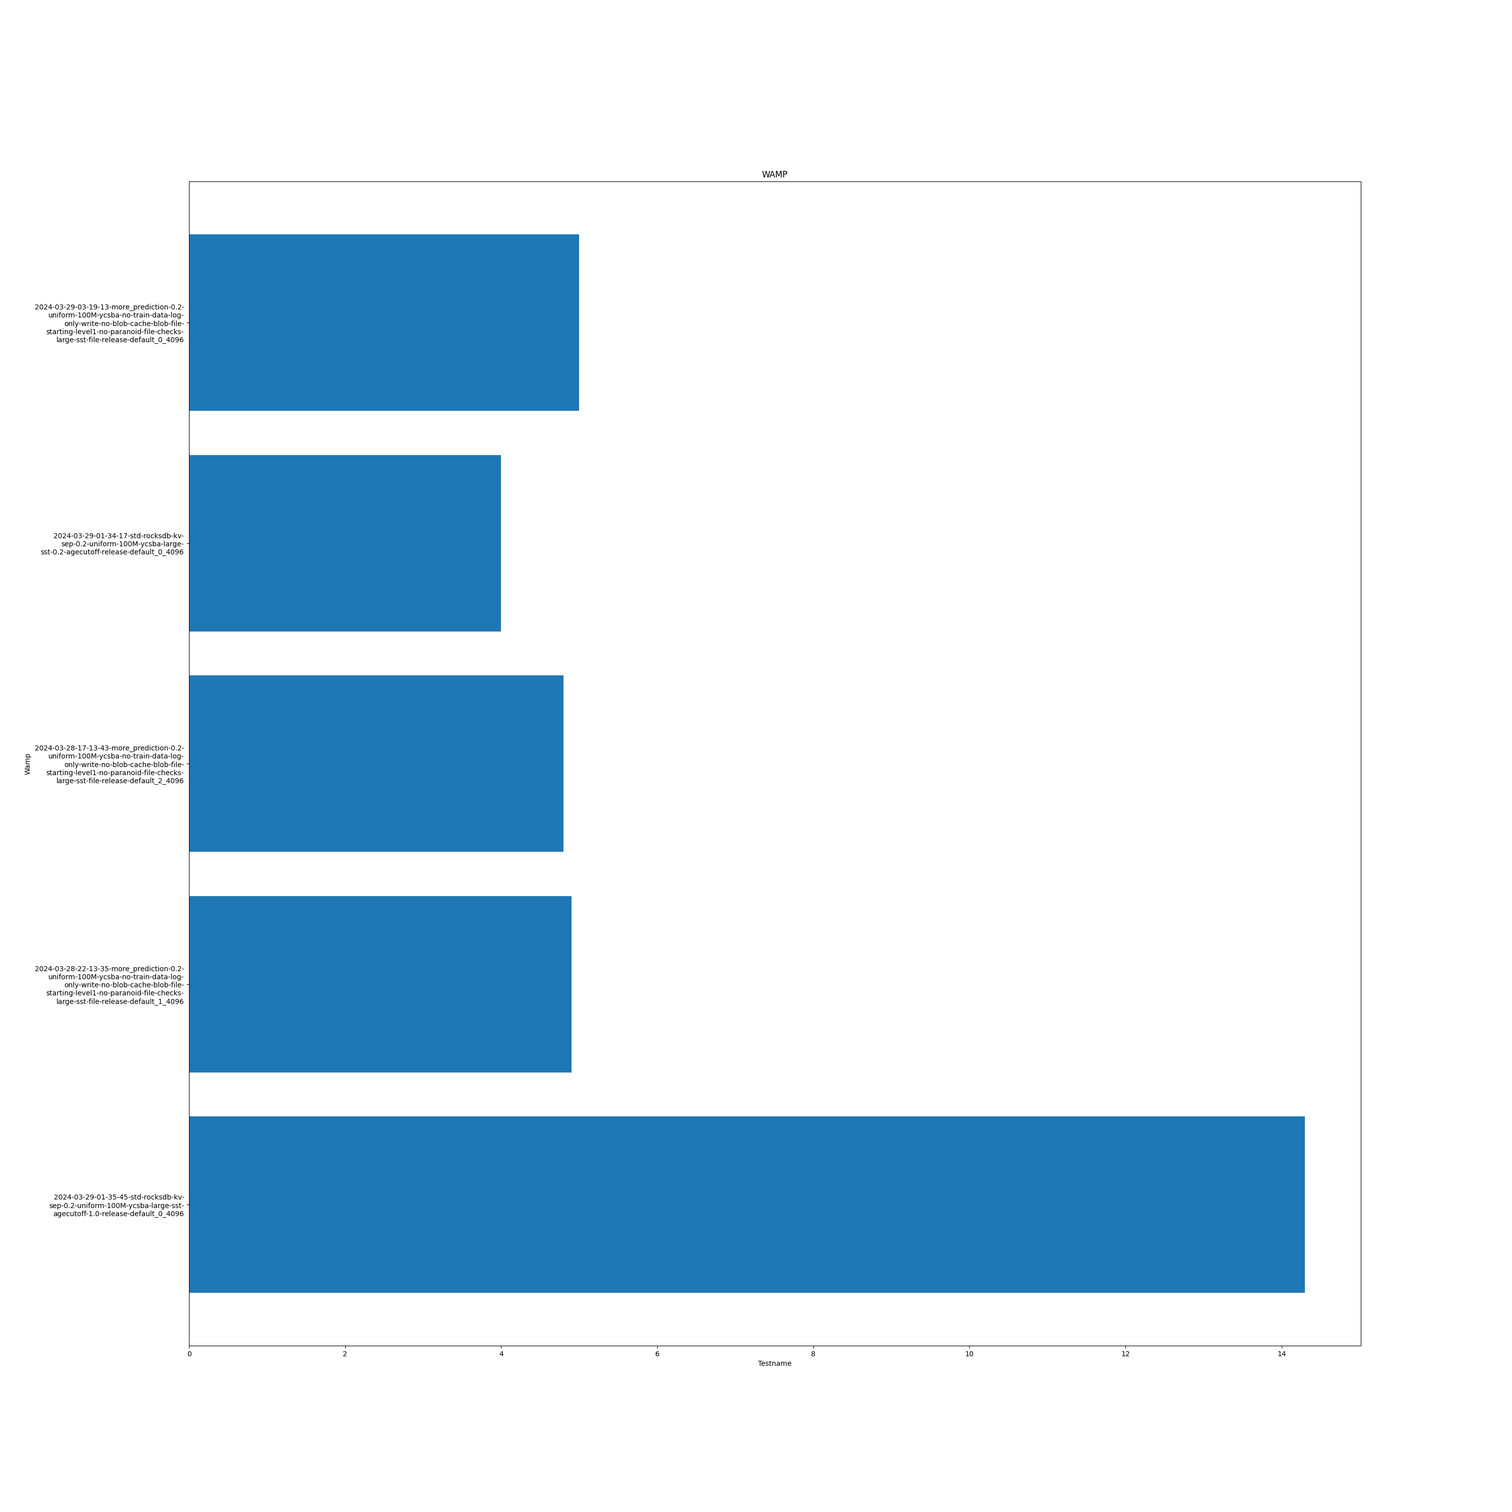
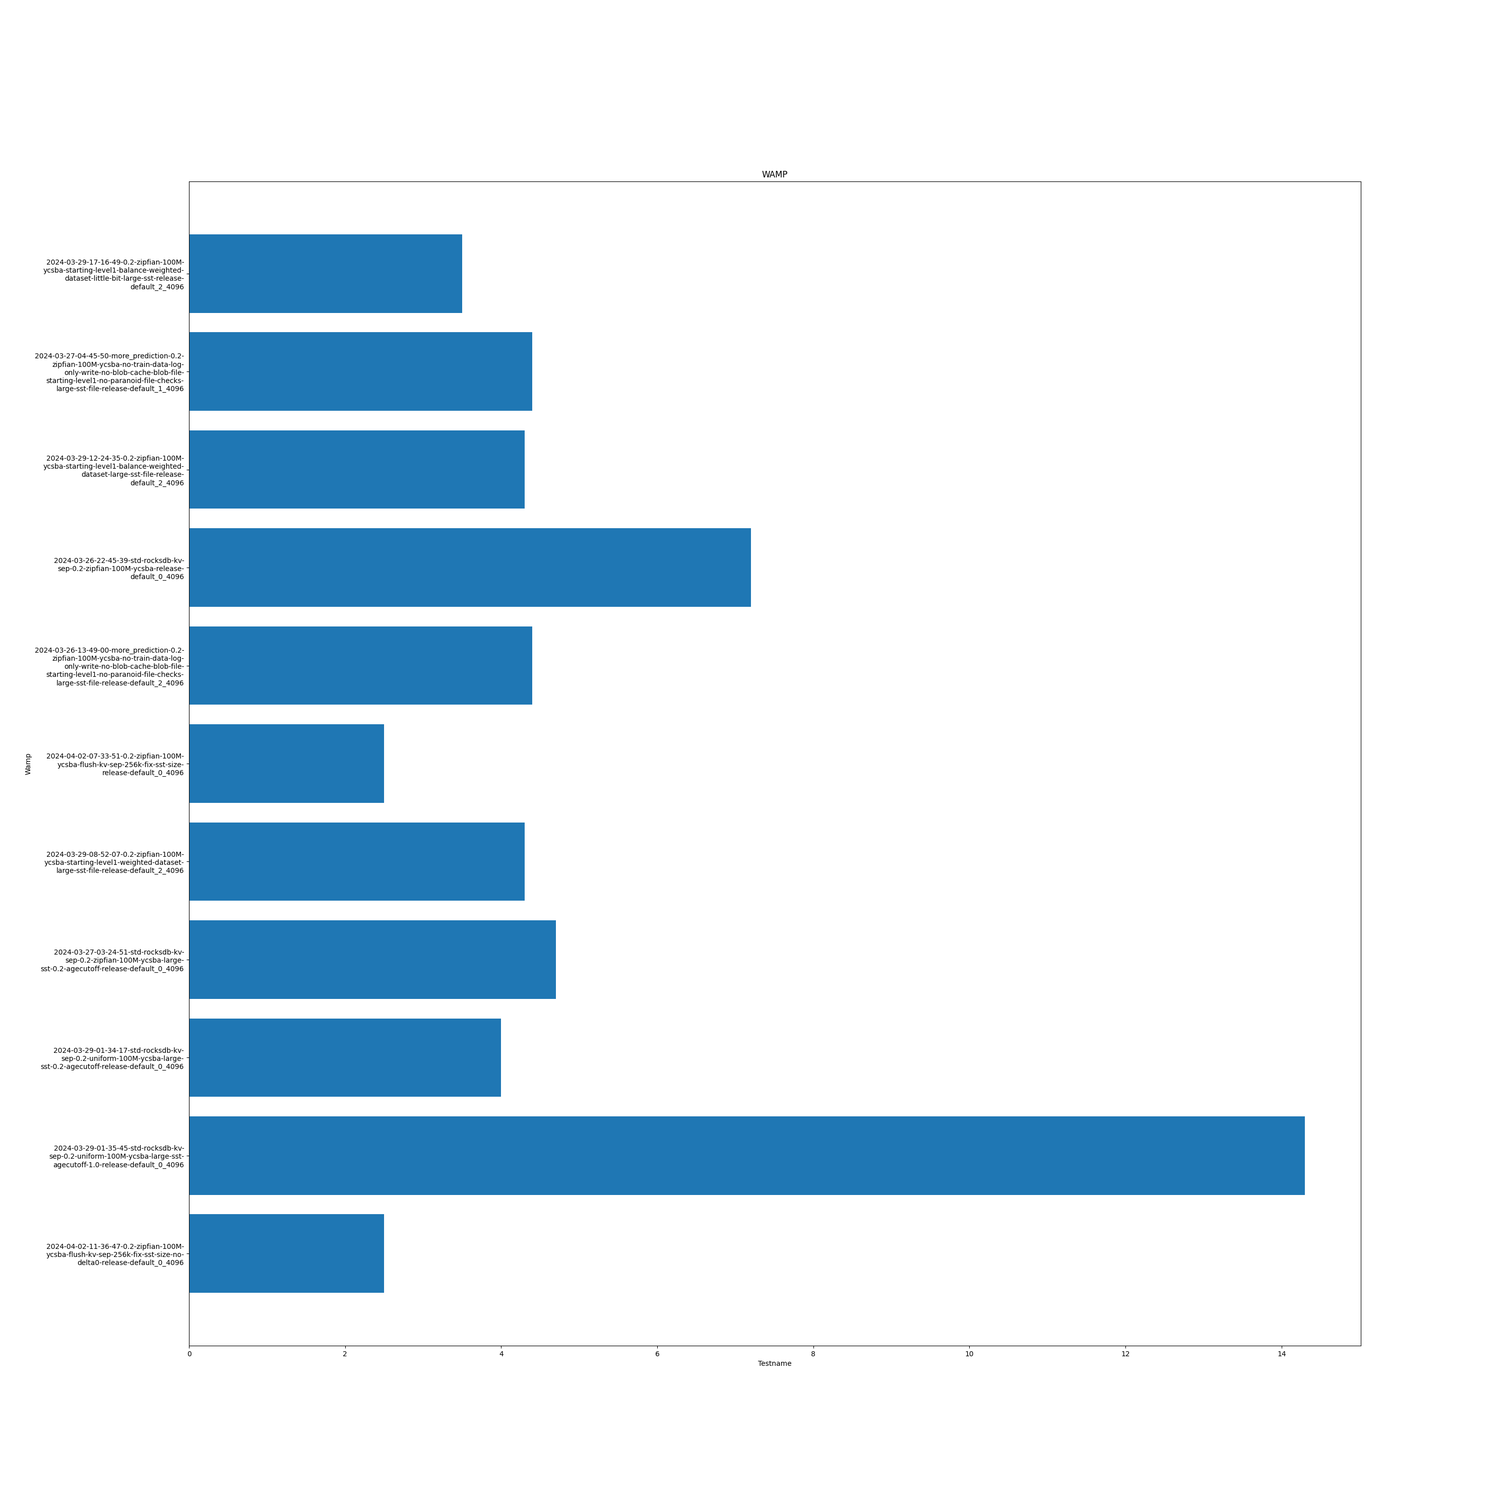
get more fig and update call run blob script to run with large sst file size

Changed region(s): [[0.031, 0.155, 0.496, 0.744], [0.031, 0.744, 0.868, 0.868], [0.031, 0.496, 0.124, 0.527]]

diff --git a/mlsm_scripts/ycsb_a/plot_write_amp.py b/mlsm_scripts/ycsb_a/plot_write_amp.py
@@ -4,9 +4,11 @@ import numpy as np
 import pandas as pd
 import os
 import csv
+import sys
 
+arg1 = sys.argv[1]
 # 1. Read the data from the file
-log_dir="./log_output_4096_uniform"
+log_dir=arg1
 
 large_x = []
 large_y = []

diff --git a/mlsm_doc/todo.md b/mlsm_doc/todo.md
@@ -12543,7 +12543,13 @@ Remove weighted sample to get lower total size.
 [Todo]
 Too many fragmented blob files.
 Accumulate specified amount of blob files before start gc.
-[Status: Not started]
+```
+2024/04/02-11:17:25.985497 3922749 [db/compaction/garbage_collection_job.cc:206] gc key count 0:6 1:0 2:289 3:0 
+2024/04/02-11:17:25.994753 3922749 (Original Log Time 2024/04/02-11:17:25.625176) EVENT_LOG_v1 {"time_micros": 1712056645625105, "job": 5296, "valid_key_num": 295, "invalid_key_num": 1096, "valid_value_size": 1208320, "invalid_value_size": 4489216, "invalid_key_ratio": 0.787922}
+2024/04/02-11:17:25.995882 3922749 (Original Log Time 2024/04/02-11:17:25.985518) EVENT_LOG_v1 {"time_micros": 1712056645984202, "job": 5296, "event": "gc_finished", "gc_time_micros": 87788, "gc_time_cpu_micros": 62376, "total_output_size": 1295640, "blob_file_head": 6736, "blob_file_tail": 16389, "blob_files": [6736, 6822, 6834, 9479, 9485, 9492, 9512, 9518, 9523, 9526, 9532, 9546, 9552, 9558, 9565, 9585, 9591, 9596, 9598, 9605, 9623, 9630, 9636, 9643, 9660, 9666, 9672, 9679, 9697, 9703, 9709, 9716, 9735, 9741, 9746, 9754, 9773, 9779, 9785, 9791, 9811, 9817, 9823, 9829, 9851, 9855, 9857, 9862, 9869, 9884, 9890, 9896, 9902, 9921, 9927, 9934, 9941, 9960, 9966, 9971, 9973, 9980, 9998, 10004, 10010, 10017, 10034, 10041, 10047, 10054, 10074, 10079, 10085, 10086, 10094, 10111, 10117, 10122, 10126, 10133, 10152, 10158, 10162, 10165, 10171, 10190, 10195, 10202, 10209, 10228, 10234, 10241, 10247, 10265, 10271, 10277, 10284, 10303, 10309, 10315, 10322, 10336, 10342, 10348, 10355, 10374, 10380, 10386, 10393, 10412, 10418, 10424, 10429, 10432, 10451, 10457, 10463, 10470, 10489, 10495, 10501, 10509, 10527, 10533, 10539, 10547, 10564, 10570, 10576, 10583, 10602, 10609, 10615, 10621, 10635, 10640, 10646, 10653, 10673, 10679, 10685, 10693, 10709, 10716, 10721, 10726, 10729, 10747, 10754, 10761, 10768, 10786, 10792, 10799, 10805, 10823, 10830, 10836, 10844, 10862, 10868, 10874, 10881, 10899, 10905, 10911, 10918, 10939, 10946, 10950, 10954, 10960, 10972, 10974, 10979, 10981, 10988, 10994, 11013, 11020, 11025, 11027, 11034, 11053, 11059, 11065, 11070, 11072, 11092, 11097, 11099, 11105, 11112, 11131, 11136, 11138, 11143, 11146, 11151, 11166, 11172, 11178, 11184, 11191, 11210, 11215, 11218, 11224, 11229, 11233, 11247, 11253, 11259, 11265, 11272, 11291, 11298, 11304, 11311, 11325, 11331, 11337, 11345, 11362, 11368, 11375, 11380, 11402, 11406, 11407, 11413, 11415, 11420, 11423, 11442, 11447, 11449, 11455, 11462, 11481, 11487, 11492, 11494, 11499, 11502, 11517, 11522, 11527, 11529, 11535, 11540, 11543, 11561, 11567, 11571, 11573, 11577, 11580, 11593, 11598, 11603, 11608, 11612, 11615, 11634, 11639, 11643, 11646, 11652, 11671, 11675, 11678, 11682, 11684, 11689, 11693, 11711, 11717, 11723, 11731, 11744, 11750, 11757, 11763, 11782, 11787, 11795, 11801, 11821, 11827, 11832, 11836, 11843, 11860, 11866, 11872, 11879, 11899, 11904, 11907, 11912, 11914, 11919, 11923, 11943, 11949, 11955, 11962, 11981, 11986, 11989, 11994, 11997, 12002, 12006, 12025, 12027, 12032, 12037, 12040, 12047, 12066, 12072, 12078, 12085, 12099, 12104, 12110, 12116, 12137, 12143, 12148, 12156, 12175, 12180, 12182, 12187, 12190, 12195, 12199, 12218, 12224, 12229, 12232, 12237, 12241, 12260, 12266, 12270, 12273, 12278, 12282, 12302, 12308, 12313, 12315, 12322, 12340, 12346, 12352, 12357, 12360, 12373, 12378, 12380, 12385, 12387, 12392, 12395, 12414, 12419, 12422, 12428, 12430, 12435, 12439, 12458, 12463, 12466, 12471, 12475, 12480, 12485, 12502, 12509, 12514, 12518, 12523, 12527, 12534, 12553, 12558, 12561, 12566, 12569, 12574, 12578, 12596, 12601, 12606, 12612, 12613, 12626, 12632, 12636, 12639, 12643, 12647, 12665, 12670, 12675, 12680, 12701, 12707, 12708, 12713, 12714, 12719, 12721, 12739, 12740, 12745, 12746, 12750, 12753, 12754, 12760, 12761, 12773, 12779, 12780, 12785, 12786, 12791, 12792, 12796, 12800, 12802, 12816, 12822, 12823, 12828, 12829, 12834, 12835, 12841, 12842, 12860, 12861, 12865, 12867, 12868, 12872, 12874, 12875, 12881, 12883, 12896, 12901, 12902, 12907, 12908, 12913, 12919, 12937, 12942, 12944, 12948, 12950, 12956, 12974, 12979, 12984, 12990, 13008, 13013, 13014, 13019, 13020, 13026, 13027, 13039, 13040, 13044, 13046, 13047, 13051, 13053, 13054, 13058, 13061, 13062, 13081, 13082, 13086, 13088, 13090, 13091, 13095, 13098, 13099, 13103, 13107, 13119, 13126, 13127, 13131, 13134, 13135, 13140, 13141, 13147, 13156, 13165, 13166, 13171, 13172, 13177, 13178, 13184, 13194, 13204, 13205, 13210, 13212, 13213, 13217, 13220, 13221, 13227, 13228, 13245, 13246, 13251, 13252, 13257, 13259, 13260, 13264, 13266, 13269, 13270, 13282, 13284, 13285, 13290, 13292, 13293, 13297, 13300, 13301, 13307, 13308, 13325, 13326, 13331, 13332, 13337, 13339, 13340, 13344, 13348, 13349, 13362, 13368, 13369, 13373, 13376, 13377, 13381, 13384, 13385, 13390, 13392, 13408, 13410, 13415, 13416, 13420, 13423, 13424, 13428, 13432, 13434, 13447, 13451, 13453, 13458, 13459, 13463, 13465, 13466, 13472, 13473, 13479, 13492, 13493, 13494, 13499, 13500, 13501, 13506, 13507, 13508, 13514, 13515, 13516, 13535, 13536, 13537, 13543, 13544, 13545, 13550, 13551, 13552, 13558, 13559, 13560, 13579, 13580, 13581, 13586, 13587, 13588, 13593, 13594, 13595, 13601, 13602, 13603, 13621, 13622, 13623, 13628, 13629, 13630, 13635, 13636, 13637, 13643, 13644, 13645, 13658, 13659, 13660, 13665, 13666, 13667, 13672, 13673, 13674, 13680, 13681, 13682, 13699, 13700, 13701, 13706, 13707, 13708, 13713, 13714, 13715, 13721, 13722, 13723, 13741, 13742, 13743, 13748, 13749, 13750, 13755, 13756, 13757, 13763, 13764, 13765, 13782, 13783, 13788, 13789, 13790, 13795, 13796, 13797, 13803, 13804, 13818, 13823, 13824, 13828, 13830, 13831, 13832, 13836, 13838, 13839, 13840, 13844, 13847, 13848, 13861, 13866, 13867, 13872, 13873, 13877, 13879, 13880, 13884, 13886, 13888, 13903, 13908, 13909, 13913, 13914, 13916, 13917, 13921, 13923, 13924, 13925, 13929, 13932, 13933, 13934, 13947, 13952, 13953, 13954, 13958, 13960, 13961, 13962, 13966, 13969, 13970, 13971, 13975, 13978, 13979, 13985, 13994, 13999, 14000, 14001, 14005, 14007, 14008, 14009, 14013, 14015, 14016, 14017, 14021, 14024, 14025, 14030, 14040, 14045, 14047, 14048, 14049, 14053, 14056, 14057, 14058, 14062, 14064, 14065, 14066, 14070, 14073, 14074, 14077, 14089, 14094, 14095, 14096, 14100, 14102, 14103, 14104, 14108, 14110, 14111, 14112, 14116, 14120, 14121, 14122, 14137, 14142, 14143, 14144, 14148, 14150, 14151, 14155, 14156, 14158, 14159, 14163, 14164, 14167, 14168, 14182, 14183, 14188, 14189, 14193, 14194, 14196, 14197, 14201, 14202, 14204, 14205, 14209, 14210, 14213, 14214, 14229, 14231, 14235, 14238, 14239, 14243, 14245, 14247, 14248, 14252, 14253, 14255, 14256, 14260, 14262, 14265, 14266, 14275, 14277, 14282, 14283, 14287, 14289, 14291, 14292, 14296, 14298, 14299, 14303, 14305, 14307, 14321, 14326, 14327, 14332, 14333, 14338, 14339, 14345, 14346, 14363, 14364, 14368, 14370, 14372, 14376, 14379, 14380, 14386, 14387, 14405, 14406, 14411, 14412, 14413, 14418, 14419, 14425, 14426, 14442, 14443, 14444, 14445, 14448, 14449, 14450, 14451, 14452, 14455, 14456, 14457, 14458, 14459, 14460, 14463, 14464, 14466, 14467, 14468, 14481, 14484, 14485, 14486, 14487, 14490, 14491, 14492, 14493, 14494, 14497, 14498, 14499, 14500, 14501, 14504, 14505, 14507, 14508, 14509, 14513, 14525, 14528, 14529, 14530, 14531, 14532, 14535, 14536, 14537, 14538, 14539, 14542, 14543, 14544, 14545, 14546, 14549, 14550, 14552, 14553, 14554, 14562, 14565, 14566, 14567, 14568, 14571, 14572, 14573, 14574, 14575, 14576, 14579, 14580, 14581, 14582, 14583, 14584, 14587, 14588, 14590, 14591, 14592, 14612, 14613, 14614, 14615, 14618, 14619, 14620, 14621, 14624, 14625, 14626, 14627, 14630, 14632, 14633, 14634, 14644, 14645, 14646, 14647, 14648, 14649, 14650, 14653, 14654, 14655, 14656, 14657, 14658, 14659, 14660, 14663, 14664, 14665, 14666, 14667, 14670, 14672, 14673, 14674, 14689, 14690, 14693, 14694, 14695, 14696, 14697, 14698, 14699, 14702, 14703, 14704, 14705, 14706, 14707, 14708, 14711, 14712, 14713, 14714, 14715, 14718, 14719, 14720, 14721, 14723, 14724, 14725, 14739, 14742, 14743, 14744, 14745, 14746, 14749, 14750, 14751, 14752, 14753, 14754, 14755, 14758, 14759, 14760, 14761, 14762, 14763, 14764, 14765, 14768, 14769, 14770, 14772, 14773, 14774, 14787, 14790, 14793, 14794, 14795, 14796, 14797, 14800, 14801, 14802, 14803, 14804, 14805, 14806, 14809, 14810, 14811, 14812, 14813, 14814, 14815, 14818, 14819, 14821, 14822, 14823, 14838, 14839, 14842, 14843, 14844, 14845, 14846, 14849, 14850, 14851, 14852, 14853, 14854, 14857, 14858, 14859, 14860, 14861, 14862, 14865, 14866, 14867, 14869, 14870, 14871, 14884, 14886, 14889, 14890, 14891, 14892, 14893, 14894, 14897, 14898, 14899, 14900, 14901, 14902, 14905, 14906, 14907, 14908, 14909, 14910, 14913, 14914, 14916, 14917, 14918, 14919, 14933, 14936, 14937, 1493
+
+```
+[Status: Ongoing]
 
 
 
@@ -12587,6 +12593,113 @@ I see, LogGarbagecollection is called before garbage collection starts.
 
 All gc key count is zero . Why is that?
 It should not happen for default_1 lifetime. 
+
+Add extra delta0 leads to many lifetime0 blobs. 
+I don't know why.
+With delta0, default lifetime 0
+```
+gc key count 0:19229 1:1279 2:1092 3:0
+```
+
+Without delta0 , default lifetime 1
+```
+gc key count 0:7010 1:0 2:1366 3:218
+```
+
+
+Looks like it's good to add delta0 to inference data.
+Add delta0
+```
+Uptime(secs): 13896.0 total, 60.1 interval
+Cumulative writes: 49M writes, 49M keys, 49M commit groups, 1.0 writes per commit group, ingest: 202.08 GB, 14.89 MB/s
+Cumulative WAL: 49M writes, 49M syncs, 1.00 writes per sync, written: 202.08 GB, 14.89 MB/s
+Cumulative stall: 00:00:0.000 H:M:S, 0.0 percent
+Interval writes: 253K writes, 253K keys, 253K commit groups, 1.0 writes per commit group, ingest: 1054.15 MB, 17.55 MB/s
+Interval WAL: 253K writes, 253K syncs, 1.00 writes per sync, written: 1.03 GB, 17.55 MB/s
+Interval stall: 00:00:0.000 H:M:S, 0.0 percent
+num-running-compactions: 0
+num-running-flushes: 0
+
+2024/04/02-11:26:27  ... thread 0: (253000,49918000) ops and (4216.5,3576.8) ops/second in (60.002997,13955.935687) seconds
+
+** Compaction Stats [default] **
+Level    Files   Size     Score Read(GB)  Rn(GB) Rnp1(GB) Write(GB) Wnew(GB) Moved(GB) W-Amp Rd(MB/s) Wr(MB/s) Comp(sec) CompMergeCPU(sec) Comp(cnt) Avg(sec) KeyIn KeyDrop Rblob(GB) Wblob(GB)
+------------------------------------------------------------------------------------------------------------------------------------------------------------------------------------------------
+  L0      1/0    6.30 MB   0.2      0.0     0.0      0.0      12.8     12.8       0.0   1.0      0.0    421.0    526.31            320.53      2093    0.251       0      0       0.0     203.6
+  L1      8/0   223.75 MB   0.9    126.0    12.8    113.2     126.1     12.8       0.0   9.8    123.9    124.0   1041.26            988.29       523    1.991    417M  8097K       0.0       0.0
+  L2     68/0    1.76 GB   0.9     57.9    12.3     45.6      47.1      1.4       0.3   3.8    217.7    176.8    272.50            249.72       438    0.622    190M    35M       0.0       0.0
+ Sum     77/0    1.98 GB   0.0    507.0    25.1    158.8     185.9     27.1       0.3   2.5     69.1     73.8   7518.25           6174.66      3054    2.462    687M    85M     323.1     355.8
+ Int      0/0    0.00 KB   0.0      6.9     0.3      2.0       2.3      0.3       0.0   2.8     73.9     72.7     96.18             85.31        35    2.748   8317K  1167K       4.6       4.5
+
+** Compaction Stats [default] **
+Priority    Files   Size     Score Read(GB)  Rn(GB) Rnp1(GB) Write(GB) Wnew(GB) Moved(GB) W-Amp Rd(MB/s) Wr(MB/s) Comp(sec) CompMergeCPU(sec) Comp(cnt) Avg(sec) KeyIn KeyDrop Rblob(GB) Wblob(GB)
+---------------------------------------------------------------------------------------------------------------------------------------------------------------------------------------------------
+ Low      0/0    0.00 KB   0.0    507.0    25.1    158.8     173.1     14.3       0.0   0.0     74.3     47.6   6991.95           5854.13       961    7.276    687M    85M     323.1     152.2
+High      0/0    0.00 KB   0.0      0.0     0.0      0.0      12.8     12.8       0.0   0.0      0.0    421.0    526.31            320.53      2093    0.251       0      0       0.0     203.6
+
+Blob file count: 2134, total size: 32.7 GB, garbage size: 0.0 GB, space amp: 1.0
+
+Uptime(secs): 13956.0 total, 143.1 interval
+Flush(GB): cumulative 216.378, interval 2.482
+AddFile(GB): cumulative 0.000, interval 0.000
+AddFile(Total Files): cumulative 0, interval 0
+AddFile(L0 Files): cumulative 0, interval 0
+AddFile(Keys): cumulative 0, interval 0
+Cumulative compaction: 389.48 GB write, 28.58 MB/s write, 183.95 GB read, 13.50 MB/s read, 1840.1 seconds
+Interval compaction: 4.65 GB write, 33.29 MB/s write, 2.31 GB read, 16.56 MB/s read, 25.6 seconds
+Stalls(count): 0 level0_slowdown, 0 level0_slowdown_with_compaction, 0 level0_numfiles, 0 level0_numfiles_with_compaction, 0 stop for pending_compaction_bytes, 0 slowdown for pending_compaction_bytes, 0 memtable_compaction, 0 memtable_slowdown, interval 0 total count
+Block cache LRUCache@0x562585e9d5d0#3922730 capacity: 16.00 GB usage: 16.00 GB table_size: 4194304 occupancy: 88 collections: 24 last_copies: 0 last_secs: 0.604626 secs_since: 143
+Block cache entry stats(count,size,portion): DataBlock(2094695,15.83 GB,98.9122%) Misc(1,0.00 KB,0%)
+
+
+gc input blob: 79161687, gc output blobs: 37304112, gc dropped blobs: 41857575, gc invalid key ratio: 0.529
+```
+No delta0
+```
+Uptime(secs): 13714.7 total, 60.0 interval
+Cumulative writes: 49M writes, 49M keys, 49M commit groups, 1.0 writes pe
+r commit group, ingest: 202.03 GB, 15.08 MB/s
+Cumulative WAL: 49M writes, 49M syncs, 1.00 writes per sync, written: 202.03 GB, 15.08 MB/s
+Cumulative stall: 00:00:0.000 H:M:S, 0.0 percent
+Interval writes: 326K writes, 326K keys, 326K commit groups, 1.0 writes per commit group, ingest: 1358.31 MB, 22.64 MB/s
+Interval WAL: 326K writes, 326K syncs, 1.00 writes per sync, written: 1.33 GB, 22.64 MB/s
+Interval stall: 00:00:0.000 H:M:S, 0.0 percent
+num-running-compactions: 0
+num-running-flushes: 0
+
+2024/04/02-15:26:23  ... thread 0: (322000,49974000) ops and (5359.2,3628.0) ops/second in (60.084018,13774.536787) seconds
+
+** Compaction Stats [default] **
+Level    Files   Size     Score Read(GB)  Rn(GB) Rnp1(GB) Write(GB) Wnew(GB) Moved(GB) W-Amp Rd(MB/s) Wr(MB/s) Comp(sec) CompMergeCPU(sec) Comp(cnt) Avg(sec) KeyIn KeyDrop Rblob(GB) Wblob(GB)
+------------------------------------------------------------------------------------------------------------------------------------------------------------------------------------------------
+  L0      4/4   25.19 MB   0.0      0.0     0.0      0.0      12.8     12.8       0.0   1.0      0.0    440.5    503.66            323.87      2096    0.240       0      0       0.0     203.8
+  L1      8/8   223.75 MB   0.0    126.0    12.8    113.2     126.1     12.8       0.0   9.8     96.9     96.9   1331.54           1058.02       523    2.546    417M  8097K       0.0       0.0
+  L2     68/0    1.76 GB   0.9     57.9    12.3     45.6      47.1      1.4       0.3   3.8    205.6    167.0    288.53            264.62       438    0.659    190M    35M       0.0       0.0
+ Sum     80/12   2.00 GB   0.0    495.6    25.1    158.8     185.9     27.1       0.3   2.5     62.6     67.3   8107.76           6154.51      3057    2.652    684M    84M     311.7     346.5
+ Int      0/0    0.00 KB   0.0     30.0     1.4      9.0      10.4      1.4       0.0   2.6     79.0     78.1    389.33            353.23       162    2.403     37M  5248K      19.7      19.3
+
+** Compaction Stats [default] **
+Priority    Files   Size     Score Read(GB)  Rn(GB) Rnp1(GB) Write(GB) Wnew(GB) Moved(GB) W-Amp Rd(MB/s) Wr(MB/s) Comp(sec) CompMergeCPU(sec) Comp(cnt) Avg(sec) KeyIn KeyDrop Rblob(GB) Wblob(GB)
+---------------------------------------------------------------------------------------------------------------------------------------------------------------------------------------------------
+ Low      0/0    0.00 KB   0.0    495.6    25.1    158.8     173.1     14.3       0.0   0.0     66.7     42.5   7604.10           5830.64       961    7.913    684M    84M     311.7     142.7
+High      0/0    0.00 KB   0.0      0.0     0.0      0.0      12.8     12.8       0.0   0.0      0.0    440.5    503.66            323.87      2096    0.240       0      0       0.0     203.8
+
+Blob file count: 2127, total size: 35.0 GB, garbage size: 0.0 GB, space amp: 1.0
+
+Uptime(secs): 13775.0 total, 563.0 interval
+Flush(GB): cumulative 216.688, interval 11.374
+AddFile(GB): cumulative 0.000, interval 0.000
+AddFile(Total Files): cumulative 0, interval 0
+AddFile(L0 Files): cumulative 0, interval 0
+AddFile(Keys): cumulative 0, interval 0
+Cumulative compaction: 389.79 GB write, 28.98 MB/s write, 183.95 GB read, 13.67 MB/s read, 2123.7 seconds
+Interval compaction: 21.10 GB write, 38.37 MB/s write, 10.36 GB read, 18.85 MB/s read, 106.7 seconds
+Stalls(count): 0 level0_slowdown, 0 level0_slowdown_with_compaction, 0 level0_numfiles, 0 level0_numfiles_with_compaction, 0 stop for pending_compaction_bytes, 0 slowdown for pending_compaction_bytes, 0 memtable_compaction, 0 memtable_slowdown, interval 0 total count
+Block cache LRUCache@0x5589c8fa4ff0#318447 capacity: 16.00 GB usage: 16.00 GB table_size: 4194304 occupancy: 88 collections: 23 last_copies: 0 last_secs: 0.596445 secs_since: 563
+Block cache entry stats(count,size,portion): DataBlock(2095527,15.83 GB,98.91%) Misc(4,23.48 KB,0.000139978%)
+
+ gc input blob: 76271337, gc output blobs: 34923099, gc dropped blobs: 41348238, gc invalid key ratio: 0.542
+```
 [Status: Ongoing]
 
 [Todo]
@@ -12607,7 +12720,30 @@ information.
 
 
 
+[Todo]
+Tried 100MB sst file size
+Why is wamp so high at l1?
+Maybe I need further check.
+```
 
+** Compaction Stats [default] **
+Level    Files   Size     Score Read(GB)  Rn(GB) Rnp1(GB) Write(GB) Wnew(GB) Moved(GB) W-Amp Rd(MB/s) Wr(MB/s) Comp(sec) CompMergeCPU(sec) Comp(cnt) Avg(sec) KeyIn KeyDrop Rblob(GB) Wblob(GB)
+------------------------------------------------------------------------------------------------------------------------------------------------------------------------------------------------
+  L0      3/0   18.83 MB   0.8      0.0     0.0      0.0       4.1      4.1       0.0   1.0      0.0    559.1    127.80             98.91       675    0.189       0      0       0.0      65.6
+  L1      9/0   777.28 MB   1.0    101.9     4.1     97.8     100.4      2.6       0.0  24.4    173.8    171.2    600.44            585.74       168    3.574    358M  6946K       0.0       0.0
+  L2     15/0    1.28 GB   0.2      1.9     0.9      0.9       1.3      0.4       0.9   1.4    224.6    156.3      8.50              8.21         7    1.214   6545K  2040K       0.0       0.0
+ Sum     27/0    2.06 GB   0.0    170.8     5.1     98.7     105.8      7.1       0.9   2.9    112.1    132.4   1560.31           1483.68       850    1.836    381M    17M      67.0      96.0
+ Int      0/0    0.00 KB   0.0     16.6     0.5      8.4       8.9      0.5       0.0   3.4    101.1    105.3    168.00            159.39        63    2.667     31M  2021K       7.7       8.4
+
+** Compaction Stats [default] **
+Priority    Files   Size     Score Read(GB)  Rn(GB) Rnp1(GB) Write(GB) Wnew(GB) Moved(GB) W-Amp Rd(MB/s) Wr(MB/s) Comp(sec) CompMergeCPU(sec) Comp(cnt) Avg(sec) KeyIn KeyDrop Rblob(GB) Wblob(GB)
+---------------------------------------------------------------------------------------------------------------------------------------------------------------------------------------------------
+ Low      0/0    0.00 KB   0.0    170.8     5.1     98.7     101.7      3.0       0.0   0.0    122.1     94.4   1432.51           1384.78       175    8.186    381M    17M      67.0      30.3
+High      0/0    0.00 KB   0.0      0.0     0.0      0.0       4.1      4.1       0.0   0.0      0.0    559.1    127.80             98.91       675    0.189       0      0       0.0      65.6
+
+Blob file count: 344, total size: 28.9 GB, garbage size: 0.0 GB, space amp: 1.0
+```
+[Status: Ongoing]
 
 
 
